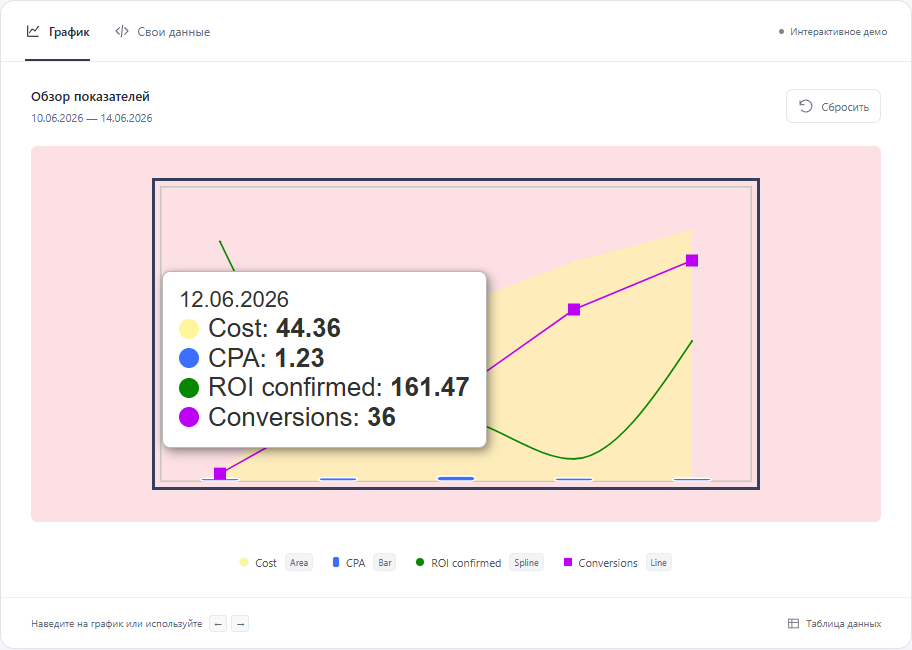
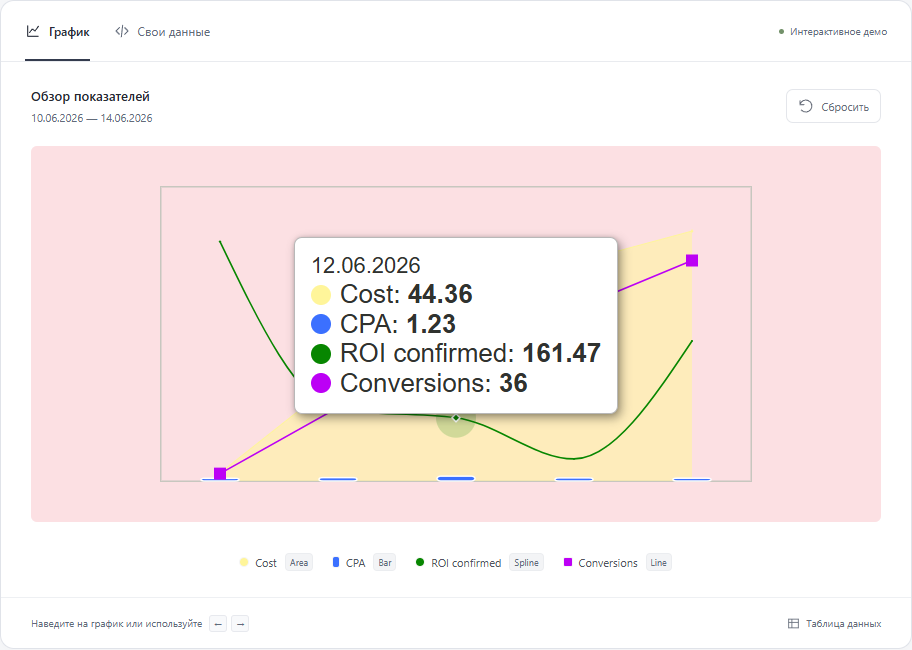
fix: center wide shared tooltip when neither side fits

Changed region(s): [[0.1535, 0.2769, 0.8289, 0.7692], [0.8289, 0.2769, 0.8596, 0.7385]]

diff --git a/src/chart/ChartTooltip.tsx b/src/chart/ChartTooltip.tsx
@@ -14,13 +14,15 @@ interface Props {
 export function ChartTooltip({ id, time, rows, anchor, width, height }: Props) {
   const box = useElementSize<HTMLDivElement>({ width: 334, height: 178 });
   const preferredX = anchor.x + 28;
-  const x = Math.max(
-    2,
-    Math.min(
-      width - box.width - 2,
-      preferredX + box.width <= width ? preferredX : anchor.x - box.width - 28,
-    ),
-  );
+  const leftX = anchor.x - box.width - 28;
+  // Center over the pointer if a wide shared tooltip fits on neither side.
+  const proposedX =
+    preferredX + box.width <= width
+      ? preferredX
+      : leftX >= 0
+        ? leftX
+        : anchor.x - box.width / 2;
+  const x = Math.max(2, Math.min(width - box.width - 2, proposedX));
   const y = Math.max(
     4,
     Math.min(height - box.height - 3, anchor.y - box.height - 22),
